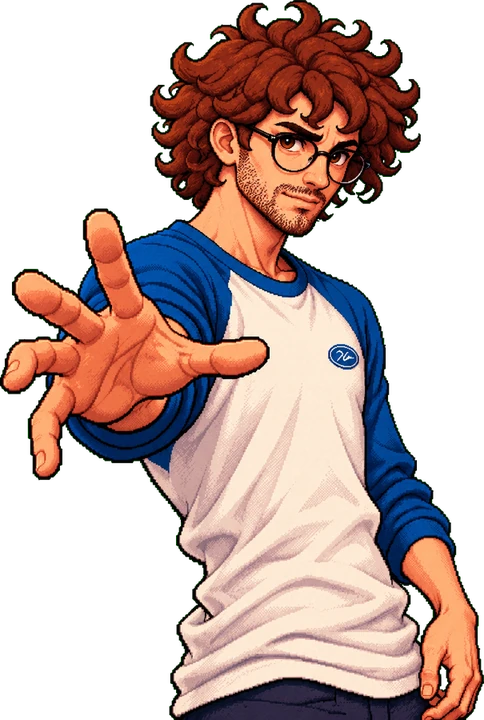
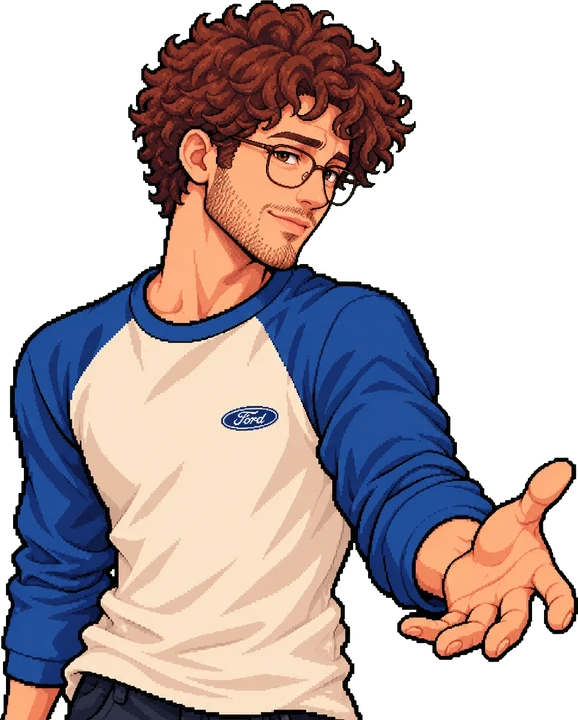
ALP seçim portresi yenilendi (DUCE/ZUZU standardı)
- Yeni seçim portresi: piksel dokulu illüstrasyon, kameraya dönük, reach pozu
- Izgara yüz kırpması (AF_YUZ) ALP için ayarlandı

diff --git a/js/assets.js b/js/assets.js
@@ -17,7 +17,7 @@ window.__ANKARA_ASSETS__ = {
   "/assets/ui/secim_metehan.png": "assets/ui/secim_metehan.webp?v=2",
   "/assets/ui/secim_ahmet.png": "assets/ui/secim_ahmet.webp?v=2",
   "/assets/ui/secim_selim.png": "assets/ui/secim_selim.webp?v=2",
-  "/assets/ui/secim_alp.png": "assets/ui/secim_alp.webp?v=2",
+  "/assets/ui/secim_alp.png": "assets/ui/secim_alp.webp?v=4",
   "/assets/ui/secim_zuzu.png": "assets/ui/secim_zuzu.webp?v=1",
   "/assets/ui/secim_duce.png": "assets/ui/secim_duce.webp?v=1",
   "/assets/alp.png": "assets/alp.webp?v=1",

diff --git a/index.html b/index.html
@@ -14,10 +14,10 @@
     <link rel="stylesheet" href="css/ek.css" />
 
     <!-- Oyun kodunun kullandığı asset yollarını gerçek dosyalara eşler -->
-    <script src="js/assets.js?v=6e3e77aa"></script>
+    <script src="js/assets.js?v=e3bb91f2"></script>
   </head>
   <body>
     <div id="root"></div>
-    <script type="module" src="js/game.bundle.js?v=6e3e77aa"></script>
+    <script type="module" src="js/game.bundle.js?v=e3bb91f2"></script>
   </body>
 </html>

diff --git a/js/game.bundle.js b/js/game.bundle.js
@@ -3400,7 +3400,7 @@ var AF_YUZ = {
   metehan: [180, 66, 7],
   ahmet: [180, 58, 7],
   selim: [180, 78, 8],
-  alp: [180, 72, 7],
+  alp: [165, 43, 8],
   zuzu: [180, 46, 6],
   duce: [145, 56, 11],
 };

diff --git a/src/40-ui-character-select.js b/src/40-ui-character-select.js
@@ -1081,7 +1081,7 @@ var AF_YUZ = {
   metehan: [180, 66, 7],
   ahmet: [180, 58, 7],
   selim: [180, 78, 8],
-  alp: [180, 72, 7],
+  alp: [165, 43, 8],
   zuzu: [180, 46, 6],
   duce: [145, 56, 11],
 };
